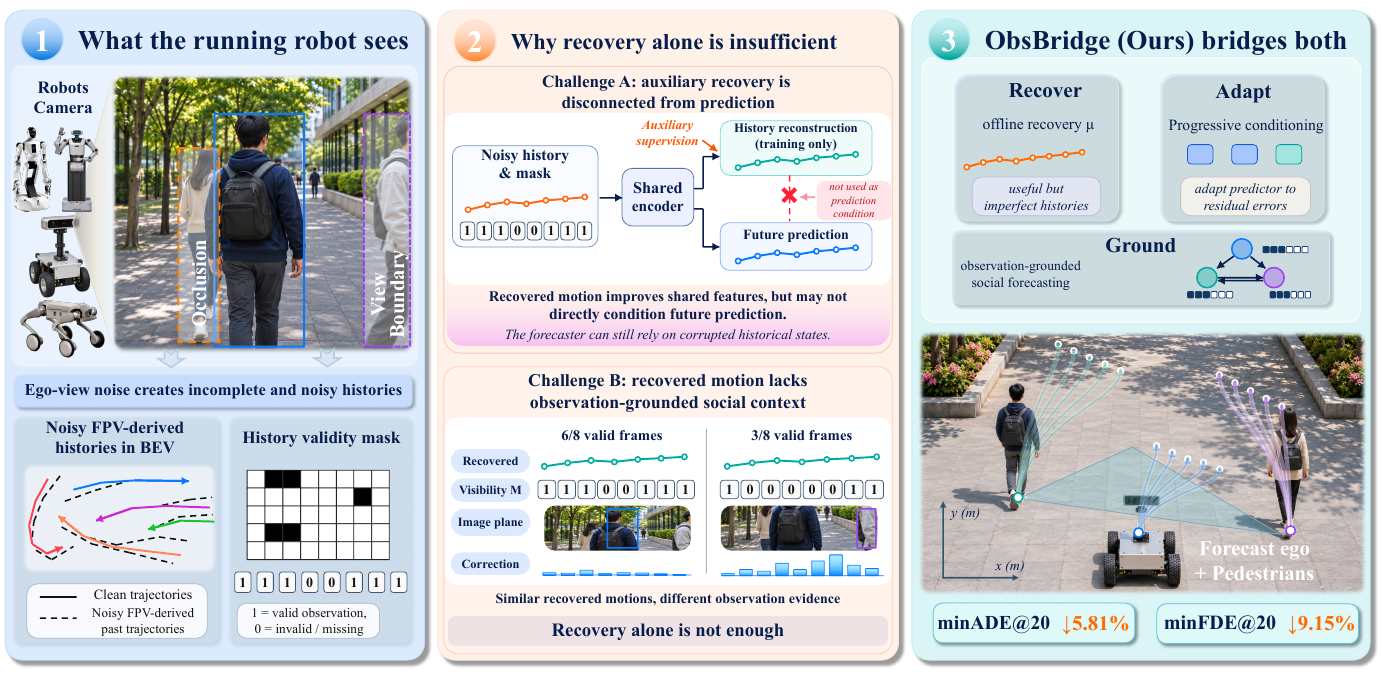
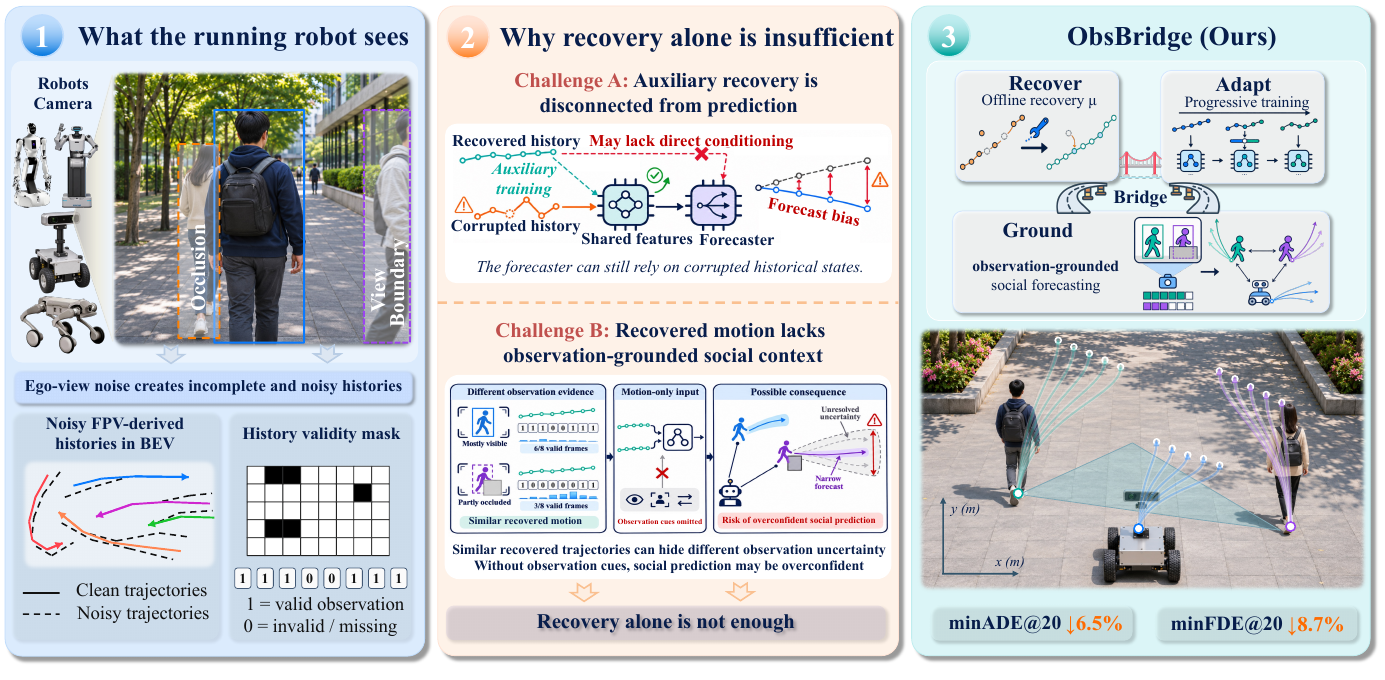
Update ObsBridge from latest manuscript

diff --git a/index.html b/index.html
@@ -102,13 +102,13 @@
           </div>
         </article>
         <article id="obsbridge" class="project reveal" data-research="multimodal">
-          <div class="project-visual"><a class="figure-link" href="assets/obsbridge-overview.png?v=62" data-figure data-caption-en="ObsBridge · Motivation and framework overview" aria-label="Enlarge ObsBridge figure"><img src="assets/obsbridge-overview.png?v=62" width="1382" height="674" loading="lazy" alt="ObsBridge overview: ego-view observation noise, historical recovery challenges, progressive adaptation, and observation-grounded social forecasting."><span class="figure-zoom" aria-hidden="true">↗</span></a><div class="visual-caption"><span>ObsBridge · Motivation and overview</span><span class="figure-hint">Click to enlarge</span></div></div>
+          <div class="project-visual"><a class="figure-link" href="assets/obsbridge-overview.png?v=80" data-figure data-caption-en="ObsBridge · Motivation and framework overview" aria-label="Enlarge ObsBridge figure"><img src="assets/obsbridge-overview.png?v=80" width="1385" height="680" loading="lazy" alt="ObsBridge overview: ego-view observation noise, historical recovery challenges, progressive adaptation, and observation-grounded social forecasting."><span class="figure-zoom" aria-hidden="true">↗</span></a><div class="visual-caption"><span>ObsBridge · Motivation and overview</span><span class="figure-hint">Click to enlarge</span></div></div>
           <div class="project-copy"><h3>ObsBridge: Observation-Grounded Conditioning for Ego Trajectory Prediction</h3>
             <p class="authors">Zhenhao Wang, Shaofeng Liang, Jiemin Wu, Sijia Chen, Keni Shi, <strong>Nan Li</strong>, et al.</p>
             <div class="project-meta"><span class="project-kind">Manuscript</span><span class="review-status">Under review · CVPR 2027</span></div>
-            <p class="project-description">ObsBridge connects recovered motion histories with observation evidence for robust pedestrian trajectory forecasting from ego-view inputs.</p>
+            <p class="project-description">ObsBridge bridges historical motion recovery and flow-based prediction through progressive adaptation and observation-grounded social reasoning.</p>
             <p class="project-keywords"><span class="keywords-label">Keywords:</span> <span>Ego Trajectory Prediction; Motion History Recovery; Observation Grounding; Flow Matching</span></p>
-            <details class="paper-abstract"><summary>Abstract</summary><div class="detail-body"><p>Pedestrian forecasting from ego-view observations is challenging because occlusion, limited visibility, and tracking errors corrupt observed motion histories. Such errors are particularly consequential for autonomous robot navigation. Existing paradigms typically either impute noisy history positions before forecasting or jointly train an auxiliary history reconstruction branch. However, directly feeding imperfect historical estimates into a predictor causes a severe distribution shift between training and deployment. Meanwhile, auxiliary reconstruction still computes inter-agent interactions over raw, corrupted coordinates. Our key insight is that robust forecasting under ego-view noise requires explicitly coupling recovered historical states with raw observation evidence to gradually adapt the predictor and calibrate inter-agent relations. Building on this insight, we propose ObsBridge, a flow-based trajectory forecasting framework with observation-grounded historical bridging. Specifically, ObsBridge first employs a frozen estimator to recover historical motion from agent-relative and ego-relative positions, image-plane locations, and visibility states. During training, we introduce an agent-wise curriculum that gradually replaces clean teacher histories with complete estimated histories before context encoding. This allows the predictor to smoothly adapt to residual recovery errors. Furthermore, we design a residual geometry adapter to fuse the encoded motion with original observation evidence. We aggregate the resulting representations through social attention to condition the flow-based trajectory generator. Extensive experiments across multiple benchmarks demonstrate that ObsBridge consistently outperforms state-of-the-art methods. On EgoTraj-TBD, it reduces minADE@20 by 5.81% and minFDE@20 by 9.15%.</p></div></details>
+            <details class="paper-abstract"><summary>Abstract</summary><div class="detail-body"><p>Pedestrian forecasting from ego-view observations is challenging because occlusion, limited visibility, and tracking errors corrupt observed motion histories. Such errors are particularly consequential for autonomous robot navigation. Existing paradigms typically either impute noisy history positions before forecasting or jointly train an auxiliary history reconstruction branch. However, directly feeding imperfect historical estimates into a predictor causes a severe distribution shift between training and deployment. Meanwhile, auxiliary reconstruction still computes inter-agent interactions over raw, corrupted coordinates. Our key insight is that robust forecasting under ego-view noise requires explicitly coupling recovered historical states with raw observation evidence to gradually adapt the predictor and calibrate inter-agent relations. Building on this insight, we propose ObsBridge, a flow-based trajectory forecasting framework with observation-grounded historical bridging. Specifically, ObsBridge first employs a frozen estimator to recover historical motion from agent-relative and ego-relative positions, image-plane locations, and visibility states. During training, we introduce an agent-wise curriculum that gradually replaces clean teacher histories with complete estimated histories before context encoding. This allows the predictor to smoothly adapt to residual recovery errors. Furthermore, we design a residual geometry adapter to fuse the encoded motion with original observation evidence. We aggregate the resulting representations through social attention to condition the flow-based trajectory generator. Extensive experiments across multiple benchmarks demonstrate that ObsBridge consistently outperforms state-of-the-art methods. On EgoTraj-TBD, it reduces minADE@20 by 6.5% and minFDE@20 by 8.7%.</p></div></details>
           </div>
         </article>
         <article id="drmot" class="project reveal" data-showcase-index="03" data-research="multimodal">
